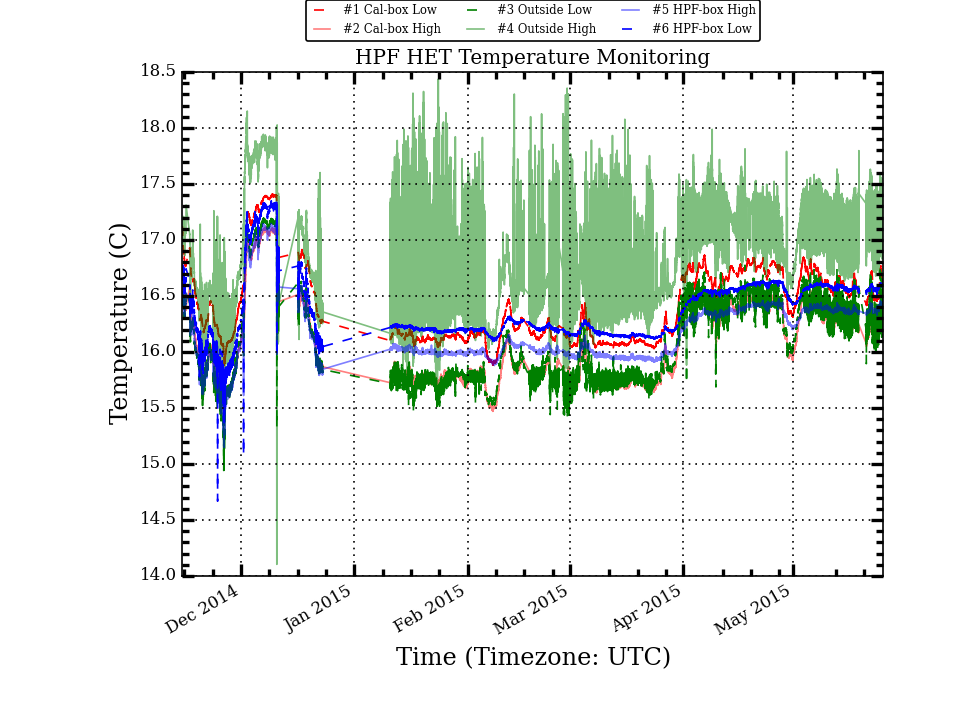
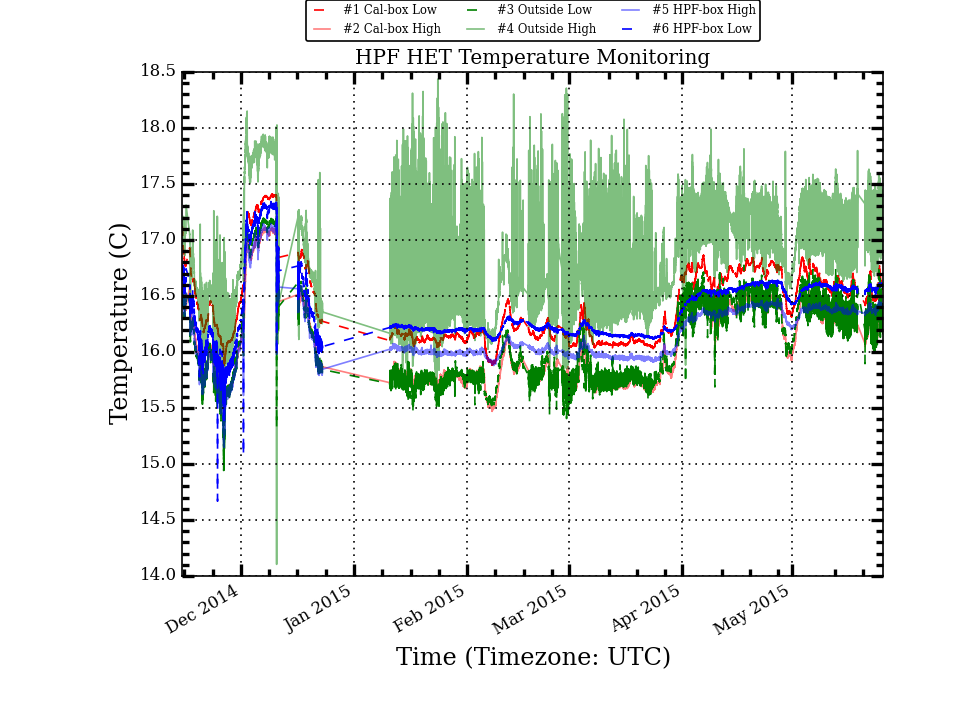
Update HPF Temp Plots

diff --git a/research/hpf_temps/plots/LakeShoreLogTotal_stats.html b/research/hpf_temps/plots/LakeShoreLogTotal_stats.html
@@ -10,44 +10,44 @@
  </TR>
  <TR>
   <TD>Cal_Low</TD>
-  <TD>16.415</TD>
+  <TD>16.416</TD>
   <TD>0.341</TD>
-  <TD>16.303</TD>
+  <TD>16.304</TD>
   <TD>17.410</TD>
   <TD>15.840</TD>
   <TD>1.570</TD>
  </TR>
  <TR>
   <TD>Cal_High</TD>
-  <TD>16.065</TD>
+  <TD>16.066</TD>
   <TD>0.365</TD>
-  <TD>15.932</TD>
+  <TD>15.934</TD>
   <TD>17.114</TD>
   <TD>15.410</TD>
   <TD>1.704</TD>
  </TR>
  <TR>
   <TD>Out_Low</TD>
-  <TD>16.098</TD>
+  <TD>16.099</TD>
   <TD>0.405</TD>
-  <TD>15.955</TD>
+  <TD>15.958</TD>
   <TD>17.201</TD>
   <TD>14.942</TD>
   <TD>2.259</TD>
  </TR>
  <TR>
   <TD>Out_High</TD>
-  <TD>16.837</TD>
+  <TD>16.838</TD>
   <TD>0.465</TD>
-  <TD>16.775</TD>
+  <TD>16.777</TD>
   <TD>18.436</TD>
   <TD>14.104</TD>
   <TD>4.332</TD>
  </TR>
  <TR>
   <TD>HPF_High</TD>
-  <TD>16.172</TD>
-  <TD>0.290</TD>
+  <TD>16.173</TD>
+  <TD>0.289</TD>
   <TD>16.046</TD>
   <TD>17.147</TD>
   <TD>15.149</TD>
@@ -57,7 +57,7 @@
   <TD>HPF_Low</TD>
   <TD>16.370</TD>
   <TD>0.287</TD>
-  <TD>16.241</TD>
+  <TD>16.242</TD>
   <TD>17.356</TD>
   <TD>14.668</TD>
   <TD>2.688</TD>
